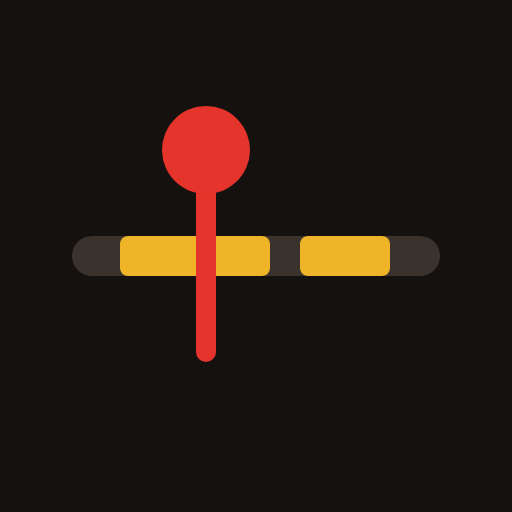
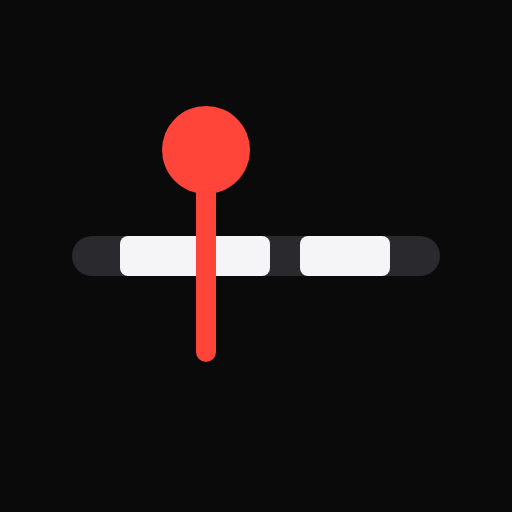
Redesign: dark, minimal interface; reliable taps; safe-area spacing
Marks are now committed on tap release using the touch-down time, so
scrolling over a button no longer creates a mark. The installed app pads
for the status bar and home indicator. Pages load network-first so
updates reach the installed app immediately.

Claude-Session: https://claude.ai/code/session_01YYdZZa9DfwNSCe6QqQTHd5

Changed region(s): [[0.2188, 0.1875, 0.5312, 0.7188], [0.5625, 0.4375, 0.7812, 0.5625]]

diff --git a/src/styles.css b/src/styles.css
@@ -1,134 +1,141 @@
-/* Layout: one column sized for a thumb; the record-red mark button owns the screen, everything else stays quiet. */
+/* Layout: one quiet near-black column; the red mark button is the only loud thing on screen. */
 :root {
-  --bg: #14110f;
-  --surface: #1e1a17;
-  --raised: #2a2521;
-  --line: #3a332d;
-  --fg: #f3ede6;
-  --muted: #a89c90;
-  --rec: #e5342b;
+  --bg: #0a0a0b;
+  --surface: #141416;
+  --raised: #1e1e21;
+  --line: rgba(255, 255, 255, 0.08);
+  --fg: #f5f5f7;
+  --muted: #8a8a90;
+  --rec: #ff453a;
+  --rec-deep: #c92a21;
   --rec-ink: #ffffff;
-  --accent: #f0b429;
-  --accent-ink: #1a1408;
-  --ok: #57c084;
-  --warn: #f0b429;
-  --tag-green: #57c084;
-  --tag-purple: #b08cf0;
-  --tag-blue: #5aa9f0;
-  --tag-yellow: #f0c94a;
-  --tag-red: #e5342b;
-  --font: ui-rounded, 'SF Pro Rounded', system-ui, -apple-system, 'Segoe UI', Roboto, 'Helvetica Neue', Arial, sans-serif;
+  --accent: #f5f5f7;
+  --accent-ink: #0a0a0b;
+  --ok: #30d158;
+  --warn: #ffd60a;
+  --tag-green: #30d158;
+  --tag-purple: #bf5af2;
+  --tag-blue: #4da3ff;
+  --tag-yellow: #ffd60a;
+  --tag-red: #ff453a;
+  --font: -apple-system, BlinkMacSystemFont, 'SF Pro Text', 'Inter', 'Segoe UI', Roboto, 'Helvetica Neue', Arial, sans-serif;
   --mono: ui-monospace, 'SF Mono', 'Roboto Mono', Menlo, Consolas, monospace;
   color-scheme: dark;
 }
-@media (prefers-color-scheme: light) {
-  :root:not([data-theme='dark']) {
-    --bg: #f6f2ec; --surface: #ffffff; --raised: #efe8df; --line: #d9cfc3; --fg: #1d1915; --muted: #6d6257;
-    --rec: #d42a22; --rec-ink: #ffffff; --accent: #a66a00; --accent-ink: #ffffff; --ok: #1f8a53; --warn: #a66a00;
-    --tag-green: #1f8a53; --tag-purple: #7446c9; --tag-blue: #1c6fc0; --tag-yellow: #9a7400; --tag-red: #d42a22;
-    color-scheme: light;
-  }
-}
-:root[data-theme='light'] {
-  --bg: #f6f2ec; --surface: #ffffff; --raised: #efe8df; --line: #d9cfc3; --fg: #1d1915; --muted: #6d6257;
-  --rec: #d42a22; --rec-ink: #ffffff; --accent: #a66a00; --accent-ink: #ffffff; --ok: #1f8a53; --warn: #a66a00;
-  --tag-green: #1f8a53; --tag-purple: #7446c9; --tag-blue: #1c6fc0; --tag-yellow: #9a7400; --tag-red: #d42a22;
-  color-scheme: light;
-}
 
 * { box-sizing: border-box; }
+html { background: var(--bg); }
 html, body { height: 100%; }
 body {
-  margin: 0; background: var(--bg); color: var(--fg); font-family: var(--font); font-size: 16px; line-height: 1.4;
-  touch-action: manipulation; overscroll-behavior: none; -webkit-text-size-adjust: 100%; -webkit-tap-highlight-color: transparent;
+  margin: 0; background: var(--bg); color: var(--fg); font-family: var(--font); font-size: 16px; line-height: 1.45;
+  -webkit-font-smoothing: antialiased; touch-action: manipulation; overscroll-behavior-y: none;
+  -webkit-text-size-adjust: 100%; -webkit-tap-highlight-color: transparent;
+  -webkit-user-select: none; user-select: none; -webkit-touch-callout: none;
 }
+input, textarea, select { -webkit-user-select: text; user-select: text; }
 #app { min-height: 100%; }
 .page {
-  max-width: 720px; margin: 0 auto; padding-block: 16px 40px;
-  padding-left: max(16px, env(safe-area-inset-left, 0px)); padding-right: max(16px, env(safe-area-inset-right, 0px));
-  display: flex; flex-direction: column; gap: 16px;
+  max-width: 560px; margin: 0 auto; padding-block: 20px 48px;
+  padding-left: max(20px, env(safe-area-inset-left, 0px)); padding-right: max(20px, env(safe-area-inset-right, 0px));
+  display: flex; flex-direction: column; gap: 20px;
 }
-h1 { font-size: 1.6rem; margin: 0; letter-spacing: -0.01em; text-wrap: balance; }
-h2 { font-size: 1.05rem; margin: 0; }
+/* Installed app: we own the whole screen, so clear the status bar and home indicator ourselves. */
+.standalone .page { padding-top: calc(12px + env(safe-area-inset-top, 0px)); padding-bottom: calc(48px + env(safe-area-inset-bottom, 0px)); }
+
+h1 { font-size: 1.9rem; font-weight: 700; margin: 0; letter-spacing: -0.03em; text-wrap: balance; }
+h2 { font-size: 1.05rem; font-weight: 600; margin: 0; letter-spacing: -0.01em; }
 p { margin: 0; }
 .muted { color: var(--muted); }
-.small { font-size: 0.85rem; }
+.small { font-size: 0.84rem; }
 .mono { font-family: var(--mono); font-variant-numeric: tabular-nums; }
-.row { display: flex; gap: 8px; align-items: center; flex-wrap: wrap; }
+.row { display: flex; gap: 10px; align-items: center; flex-wrap: wrap; }
 .row > .grow { flex: 1; min-width: 0; }
 .stack { display: flex; flex-direction: column; gap: 8px; }
-.card { background: var(--surface); border: 1px solid var(--line); border-radius: 14px; padding: 14px; display: flex; flex-direction: column; gap: 10px; }
-.label { font-size: 0.72rem; letter-spacing: 0.08em; text-transform: uppercase; color: var(--muted); }
+.card { background: var(--surface); border-radius: 20px; padding: 18px; display: flex; flex-direction: column; gap: 14px; }
+.label { font-size: 0.7rem; font-weight: 600; letter-spacing: 0.09em; text-transform: uppercase; color: var(--muted); }
 
 button, .btn {
-  font: inherit; color: var(--fg); background: var(--raised); border: 1px solid var(--line); border-radius: 10px;
-  padding: 10px 14px; min-height: 44px; cursor: pointer; user-select: none; -webkit-user-select: none;
-  display: inline-flex; align-items: center; justify-content: center; gap: 6px; text-align: center;
+  font: inherit; font-weight: 500; color: var(--fg); background: var(--raised); border: 0; border-radius: 14px;
+  padding: 12px 16px; min-height: 48px; cursor: pointer; position: relative;
+  display: inline-flex; align-items: center; justify-content: center; gap: 8px; text-align: center;
+  transition: opacity 120ms, transform 120ms;
 }
-button:focus-visible, .btn:focus-within, input:focus-visible, select:focus-visible { outline: 2px solid var(--accent); outline-offset: 2px; }
-button:disabled { opacity: 0.45; cursor: default; }
-button.primary { background: var(--accent); color: var(--accent-ink); border-color: transparent; font-weight: 600; }
-button.ghost { background: transparent; }
-button.quiet { background: transparent; border-color: transparent; color: var(--muted); padding: 6px 8px; min-height: 36px; }
+button:active, .btn:active { opacity: 0.6; }
+button:focus-visible, .btn:focus-within, input:focus-visible, select:focus-visible, textarea:focus-visible { outline: 2px solid var(--fg); outline-offset: 2px; }
+button:disabled { opacity: 0.35; cursor: default; }
+button.primary { background: var(--accent); color: var(--accent-ink); font-weight: 600; }
+button.ghost { background: transparent; box-shadow: inset 0 0 0 1px var(--line); color: var(--muted); }
+button.quiet { background: transparent; color: var(--muted); padding: 6px 4px; min-height: 40px; min-width: 40px; }
 button.danger { color: var(--rec); }
-.btn input[type='file'] { position: absolute; width: 1px; height: 1px; opacity: 0; }
-.btn { position: relative; }
+.btn input[type='file'] { position: absolute; inset: 0; width: 100%; height: 100%; opacity: 0; cursor: pointer; font-size: 0; }
 input[type='text'], input[type='number'], select, textarea {
-  font: inherit; font-size: 16px; color: var(--fg); background: var(--bg); border: 1px solid var(--line); border-radius: 10px;
-  padding: 10px 12px; min-height: 44px; width: 100%; min-width: 0;
+  font: inherit; font-size: 16px; color: var(--fg); background: var(--raised); border: 0; border-radius: 12px;
+  padding: 12px 14px; min-height: 48px; width: 100%; min-width: 0; -webkit-appearance: none; appearance: none;
 }
-.seg { display: inline-flex; border: 1px solid var(--line); border-radius: 10px; overflow: hidden; }
-.seg button { border: 0; border-radius: 0; background: transparent; min-height: 40px; padding: 6px 12px; color: var(--muted); }
-.seg button[aria-pressed='true'] { background: var(--raised); color: var(--fg); font-weight: 600; }
+input::placeholder { color: var(--muted); opacity: 0.7; }
+.seg { display: inline-flex; background: var(--raised); border-radius: 12px; padding: 3px; gap: 2px; }
+.seg button { background: transparent; border-radius: 9px; min-height: 38px; min-width: 46px; padding: 4px 12px; color: var(--muted); }
+.seg button[aria-pressed='true'] { background: var(--fg); color: var(--accent-ink); font-weight: 600; }
 
 /* Mark screen */
-.topbar { display: flex; align-items: center; gap: 8px; }
-.topbar .title { flex: 1; min-width: 0; font-weight: 600; overflow: hidden; text-overflow: ellipsis; white-space: nowrap; }
-.clock { font-family: var(--mono); font-variant-numeric: tabular-nums; font-size: 1.05rem; }
+.topbar { display: flex; align-items: center; gap: 10px; min-height: 40px; }
+.topbar .title { flex: 1; min-width: 0; font-weight: 600; letter-spacing: -0.01em; overflow: hidden; text-overflow: ellipsis; white-space: nowrap; }
+.clock { font-family: var(--mono); font-variant-numeric: tabular-nums; font-size: 0.95rem; color: var(--muted); }
+.stage { display: flex; flex-direction: column; align-items: center; gap: 18px; padding-block: 12px 4px; }
 .markbtn {
-  width: 100%; min-height: min(38vh, 300px); border-radius: 28px; border: 0; background: var(--rec); color: var(--rec-ink);
-  font-size: 2.2rem; font-weight: 700; letter-spacing: 0.06em; flex-direction: column; gap: 2px;
-  box-shadow: 0 10px 0 color-mix(in srgb, var(--rec) 55%, #000); transition: transform 60ms, box-shadow 60ms;
+  width: min(64vw, 260px); height: min(64vw, 260px); min-height: 0; padding: 0; border-radius: 50%;
+  background: radial-gradient(circle at 50% 35%, var(--rec), var(--rec-deep)); color: var(--rec-ink);
+  font-size: 1.5rem; font-weight: 700; letter-spacing: 0.16em; text-indent: 0.16em;
+  box-shadow: 0 0 0 10px rgba(255, 69, 58, 0.1), 0 24px 60px -18px rgba(255, 69, 58, 0.55);
+  transition: transform 90ms ease-out; touch-action: manipulation;
 }
-.markbtn:active, .markbtn.hit { transform: translateY(8px); box-shadow: 0 2px 0 color-mix(in srgb, var(--rec) 55%, #000); }
-.markbtn small { font-size: 0.8rem; font-weight: 500; letter-spacing: 0.02em; opacity: 0.85; }
-.tags { display: grid; grid-template-columns: repeat(2, minmax(0, 1fr)); gap: 8px; }
-.tag { min-height: 56px; font-weight: 600; border-color: var(--c); color: var(--c); background: color-mix(in srgb, var(--c) 12%, transparent); }
-.dot { width: 10px; height: 10px; border-radius: 50%; background: var(--c); flex: none; }
+.markbtn:active { opacity: 1; transform: scale(0.955); }
+.markbtn::after { content: ''; position: absolute; inset: -10px; border-radius: 50%; border: 2px solid var(--rec); opacity: 0; pointer-events: none; }
+.markbtn.hit::after { animation: ring 520ms ease-out; }
+@keyframes ring { from { opacity: 0.7; transform: scale(1); } to { opacity: 0; transform: scale(1.22); } }
+.count { font-size: 0.9rem; color: var(--muted); min-height: 1.4em; font-variant-numeric: tabular-nums; }
+.count b { color: var(--fg); font-weight: 600; }
+.tags { display: grid; grid-template-columns: repeat(2, minmax(0, 1fr)); gap: 10px; }
+.tag { min-height: 54px; justify-content: flex-start; background: var(--surface); padding-inline: 16px; }
+.tag.hit { animation: tagflash 420ms ease-out; }
+@keyframes tagflash { from { background: color-mix(in srgb, var(--c) 40%, var(--surface)); } to { background: var(--surface); } }
+.dot { width: 8px; height: 8px; border-radius: 50%; background: var(--c); flex: none; }
 .c-green { --c: var(--tag-green); } .c-purple { --c: var(--tag-purple); } .c-blue { --c: var(--tag-blue); }
 .c-yellow { --c: var(--tag-yellow); } .c-red { --c: var(--tag-red); }
-.flash { position: fixed; inset: 0; background: var(--fg); opacity: 0; pointer-events: none; z-index: 20; }
-.flash.on { animation: flash 260ms ease-out; }
-@keyframes flash { from { opacity: 0.35; } to { opacity: 0; } }
-@media (prefers-reduced-motion: reduce) { .flash.on { animation: none; } .markbtn { transition: none; } }
+@media (prefers-reduced-motion: reduce) { .markbtn, button, .btn { transition: none; } .markbtn.hit::after, .tag.hit { animation: none; } }
 .marks { display: flex; flex-direction: column; }
-.mark { display: grid; grid-template-columns: auto minmax(0, 1fr) auto; gap: 10px; align-items: center; padding: 8px 0; border-top: 1px solid var(--line); }
-.mark:first-child { border-top: 0; }
-.mark input { min-height: 38px; padding: 6px 10px; }
+.mark { display: grid; grid-template-columns: auto minmax(0, 1fr) auto; gap: 12px; align-items: center; padding: 8px 0; }
+.mark + .mark { border-top: 1px solid var(--line); }
+.mark input { min-height: 40px; padding: 8px 12px; background: transparent; }
+.mark input:focus { background: var(--raised); }
 
 /* Slate */
 .slate { position: fixed; inset: 0; z-index: 30; background: #000; color: #fff; display: flex; flex-direction: column; align-items: center; justify-content: center; gap: 3vh;
-  padding: max(16px, env(safe-area-inset-top, 0px)) max(16px, env(safe-area-inset-right, 0px)) max(16px, env(safe-area-inset-bottom, 0px)) max(16px, env(safe-area-inset-left, 0px)); text-align: center; }
+  padding: max(20px, env(safe-area-inset-top, 0px)) max(20px, env(safe-area-inset-right, 0px)) max(20px, env(safe-area-inset-bottom, 0px)) max(20px, env(safe-area-inset-left, 0px)); text-align: center; }
 .slate .big { font-family: var(--mono); font-variant-numeric: tabular-nums; font-weight: 700; font-size: min(15vw, 30vh); line-height: 1; white-space: nowrap; }
 .slate .bar { width: 90%; height: 5vh; border: 2px solid #fff; position: relative; }
 .slate .bar i { position: absolute; top: 0; bottom: 0; left: 0; background: #fff; }
-.slate button { background: #222; color: #fff; border-color: #555; }
 
 /* Footage */
-.timeline { display: flex; flex-direction: column; gap: 6px; }
-.lane { display: grid; grid-template-columns: 54px minmax(0, 1fr); gap: 8px; align-items: center; }
-.track { position: relative; height: 26px; background: var(--bg); border: 1px solid var(--line); border-radius: 6px; overflow: hidden; }
-.track .clip { position: absolute; top: 3px; bottom: 3px; background: color-mix(in srgb, var(--accent) 45%, transparent); border-radius: 3px; min-width: 2px; }
+.timeline { display: flex; flex-direction: column; gap: 8px; }
+.lane { display: grid; grid-template-columns: 56px minmax(0, 1fr); gap: 10px; align-items: center; }
+.track { position: relative; height: 22px; background: var(--raised); border-radius: 6px; overflow: hidden; }
+.track .clip { position: absolute; top: 0; bottom: 0; background: rgba(245, 245, 247, 0.28); border-radius: 4px; min-width: 2px; }
 .track .tick { position: absolute; top: 0; bottom: 0; width: 2px; background: var(--c, var(--rec)); }
-.cliprow { display: grid; grid-template-columns: minmax(0, 1fr) auto; gap: 8px; padding: 6px 0; border-top: 1px solid var(--line); font-size: 0.9rem; }
-.pill { display: inline-flex; align-items: center; gap: 6px; border-radius: 999px; padding: 2px 10px; font-size: 0.78rem; border: 1px solid var(--line); color: var(--muted); }
-.pill.ok { color: var(--ok); border-color: var(--ok); } .pill.warn { color: var(--warn); border-color: var(--warn); }
-.notice { border: 1px solid var(--warn); color: var(--fg); border-radius: 12px; padding: 10px 12px; font-size: 0.9rem; background: color-mix(in srgb, var(--warn) 10%, transparent); }
-.modal { position: fixed; inset: 0; z-index: 25; background: color-mix(in srgb, var(--bg) 80%, transparent); display: flex; align-items: flex-end; justify-content: center; }
-.modal .sheet { background: var(--surface); border: 1px solid var(--line); border-radius: 18px 18px 0 0; width: 100%; max-width: 720px; max-height: 92%; overflow: auto;
-  padding: 18px max(16px, env(safe-area-inset-right, 0px)) calc(18px + env(safe-area-inset-bottom, 0px)) max(16px, env(safe-area-inset-left, 0px)); display: flex; flex-direction: column; gap: 12px; }
-.grid3 { display: grid; grid-template-columns: repeat(3, minmax(0, 1fr)); gap: 8px; }
-.exports { display: grid; grid-template-columns: repeat(auto-fit, minmax(220px, 1fr)); gap: 8px; }
-.exports button { justify-content: flex-start; text-align: left; flex-direction: column; align-items: flex-start; gap: 0; }
-ol.steps { margin: 0; padding-left: 1.2em; display: flex; flex-direction: column; gap: 6px; }
-textarea.copy { min-height: 160px; font-family: var(--mono); font-size: 12px; }
+.cliprow { display: grid; grid-template-columns: minmax(0, 1fr) auto; gap: 10px; align-items: center; padding: 10px 0; font-size: 0.9rem; }
+.cliprow + .cliprow { border-top: 1px solid var(--line); }
+.pill { display: inline-flex; align-items: center; gap: 6px; border-radius: 999px; padding: 4px 10px; font-size: 0.75rem; font-weight: 500; background: var(--raised); color: var(--muted); white-space: nowrap; }
+.pill.ok { color: var(--ok); background: rgba(48, 209, 88, 0.12); } .pill.warn { color: var(--warn); background: rgba(255, 214, 10, 0.12); }
+.notice { border-radius: 14px; padding: 12px 14px; font-size: 0.88rem; background: rgba(255, 214, 10, 0.08); color: var(--fg); }
+.modal { position: fixed; inset: 0; z-index: 25; background: rgba(0, 0, 0, 0.6); -webkit-backdrop-filter: blur(8px); backdrop-filter: blur(8px); display: flex; align-items: flex-end; justify-content: center; }
+.modal .sheet { background: var(--surface); border-radius: 24px 24px 0 0; width: 100%; max-width: 560px; max-height: 92%; overflow: auto;
+  padding: 22px max(20px, env(safe-area-inset-right, 0px)) calc(22px + env(safe-area-inset-bottom, 0px)) max(20px, env(safe-area-inset-left, 0px)); display: flex; flex-direction: column; gap: 14px; }
+.grid3 { display: grid; grid-template-columns: repeat(3, minmax(0, 1fr)); gap: 10px; }
+.grid4 { display: grid; grid-template-columns: repeat(4, minmax(0, 1fr)); gap: 8px; }
+.grid4 button { padding-inline: 4px; }
+.exports { display: flex; flex-direction: column; }
+.export { display: grid; grid-template-columns: minmax(0, 1fr) auto; gap: 8px; align-items: center; }
+.export + .export { border-top: 1px solid var(--line); }
+.export > button:first-child { background: transparent; border-radius: 0; justify-content: flex-start; text-align: left; flex-direction: column; align-items: flex-start; gap: 0; padding: 12px 0; }
+ol.steps { margin: 0; padding-left: 1.2em; display: flex; flex-direction: column; gap: 8px; }
+textarea.copy { min-height: 180px; font-family: var(--mono); font-size: 12px; }

diff --git a/src/ui/MarkScreen.tsx b/src/ui/MarkScreen.tsx
@@ -19,7 +19,8 @@ export function MarkScreen({ session, update, onHome, onFootage }: Props) {
   const [now, setNow] = useState(Date.now());
   const [awake, setAwake] = useState(false);
   const [slate, setSlate] = useState(false);
-  const [flash, setFlash] = useState(0);
+  const [hit, setHit] = useState<{ key: string; n: number }>({ key: '', n: 0 });
+  const downAt = useRef(0);
   const latest = useRef(session);
   latest.current = session;
 
@@ -36,13 +37,19 @@ export function MarkScreen({ session, update, onHome, onFootage }: Props) {
   }, []);
 
   // The timestamp is taken first, before anything else can delay it.
+  const press = () => {
+    downAt.current = Date.now();
+  };
   const mark = (tag: string, color: string) => {
-    const tapMs = Date.now();
+    const now = Date.now();
+    // Use the moment the finger went down, unless that was long ago (keyboard, stale touch).
+    const tapMs = now - downAt.current < 1500 ? downAt.current : now;
+    downAt.current = 0;
     const s = latest.current;
     const m: Marker = { id: uid(), tapMs, preRollMs: s.preRollMs, tag, color, note: '' };
     update({ ...s, markers: [...s.markers, m] });
     buzz();
-    setFlash((n) => n + 1);
+    setHit((h) => ({ key: tag || 'mark', n: h.n + 1 }));
     if (!awake) void keepAwake(true).then(setAwake);
   };
 
@@ -53,28 +60,35 @@ export function MarkScreen({ session, update, onHome, onFootage }: Props) {
 
   return (
     <div class="page">
-      <div key={flash} class={`flash ${flash ? 'on' : ''}`} />
       <div class="topbar">
-        <button class="quiet" onClick={onHome} aria-label="Back to shoots">‹ Shoots</button>
+        <button class="quiet" onClick={onHome} aria-label="Back to shoots">‹</button>
         <span class="title" dir="auto">{session.name}</span>
         <span class="clock" aria-label="Phone time">{clockText(now)}</span>
       </div>
 
-      <button class="markbtn" onPointerDown={(e) => { e.preventDefault(); mark('', 'red'); }} onKeyDown={(e) => { if (e.key === 'Enter' || e.key === ' ') { e.preventDefault(); mark('', 'red'); } }}>
-        MARK
-        <small>{session.markers.length === 0 ? 'Tap when something good happens' : `${session.markers.length} marked`}</small>
-      </button>
+      <div class="stage">
+        <button key={hit.key === 'mark' ? hit.n : 'mark'} class={`markbtn ${hit.key === 'mark' ? 'hit' : ''}`} aria-label="Mark this moment" onPointerDown={press} onClick={() => mark('', 'red')}>
+          MARK
+        </button>
+        <div class="count" role="status">
+          {session.markers.length === 0 ? 'Tap when something good happens' : <><b>{session.markers.length}</b> marked</>}
+        </div>
+      </div>
 
       <div class="tags">
         {session.tags.map((t) => (
-          <button key={t.label} class={`tag c-${t.color}`} onPointerDown={(e) => { e.preventDefault(); mark(t.label, t.color); }} onKeyDown={(e) => { if (e.key === 'Enter' || e.key === ' ') { e.preventDefault(); mark(t.label, t.color); } }}>
+          <button key={t.label + (hit.key === t.label ? hit.n : '')} class={`tag c-${t.color} ${hit.key === t.label ? 'hit' : ''}`} onPointerDown={press} onClick={() => mark(t.label, t.color)}>
+            <span class="dot" />
             {t.label}
           </button>
         ))}
       </div>
 
       <div class="row">
-        <span class="label grow">Look-back: marks land this long before your tap</span>
+        <div class="stack grow" style="gap:2px">
+          <span>Look-back</span>
+          <span class="muted small">Marks land this long before your tap</span>
+        </div>
         <div class="seg" role="group" aria-label="Look-back">
           {[0, 3, 5, 10].map((s) => (
             <button key={s} aria-pressed={session.preRollMs === s * 1000} onClick={() => update({ ...session, preRollMs: s * 1000 })}>
@@ -88,7 +102,7 @@ export function MarkScreen({ session, update, onHome, onFootage }: Props) {
         <button class="grow" onClick={() => setSlate(true)}>Sync slate</button>
         <button class="grow primary" onClick={onFootage}>Footage &amp; export</button>
       </div>
-      {!awake && <p class="muted small">Your screen may dim while you listen. Marks are saved either way; tap once to wake it.</p>}
+      {!awake && <p class="muted small">Your screen may dim while you listen. Marks are saved either way.</p>}
 
       {recent.length > 0 && (
         <section class="card">

diff --git a/src/ui/FootageScreen.tsx b/src/ui/FootageScreen.tsx
@@ -65,7 +65,7 @@ export function FootageScreen({ session, update, onBack, onHome }: Props) {
   return (
     <div class="page">
       <div class="topbar">
-        <button class="quiet" onClick={onBack}>‹ Mark</button>
+        <button class="quiet" onClick={onBack} aria-label="Back to marking">‹</button>
         <span class="title" dir="auto">{session.name}</span>
         <button class="quiet" onClick={onHome}>Shoots</button>
       </div>
@@ -116,12 +116,12 @@ export function FootageScreen({ session, update, onBack, onHome }: Props) {
         {!hasClips && <p class="muted small">Add clips first to get editor files. You can already save a session backup.</p>}
         <div class="exports">
           {files.filter((f) => hasClips || f.kind === 'session').map((f) => (
-            <div class="stack" key={f.name} style="gap:4px">
+            <div class="export" key={f.name}>
               <button onClick={() => run(() => saveFile(f))}>
-                <strong>{label[f.kind][0]}</strong>
+                <span>{label[f.kind][0]}</span>
                 <span class="muted small">{label[f.kind][1]}</span>
               </button>
-              <button class="quiet small" onClick={() => setShowing(f)}>Show as text</button>
+              <button class="quiet small" aria-label={`Show ${label[f.kind][0]} as text`} onClick={() => setShowing(f)}>Text</button>
             </div>
           ))}
         </div>
@@ -216,7 +216,7 @@ function CameraCard(p: {
   return (
     <section class="card">
       <div class="row">
-        <input id={`cam-${c.id}`} class="grow" type="text" dir="auto" value={c.label} aria-label="Camera name" style="font-weight:600;max-width:12em" onInput={(e) => p.onChange({ label: (e.target as HTMLInputElement).value })} />
+        <input id={`cam-${c.id}`} class="grow" type="text" dir="auto" value={c.label} aria-label="Camera name" style="font-weight:600;max-width:10em" onInput={(e) => p.onChange({ label: (e.target as HTMLInputElement).value })} />
         <span class="grow muted small">{models}{cam.clips.length ? ` · ${cam.clips.length} clip${cam.clips.length === 1 ? '' : 's'} · ${p.markerCount} mark${p.markerCount === 1 ? '' : 's'}` : ''}</span>
       </div>
       <div class="row">
@@ -237,7 +237,7 @@ function CameraCard(p: {
               <span class={`pill ${c.calibrated ? 'ok' : ''}`}>{c.calibrated ? 'Slate-synced' : cam.freeRun ? 'Free-run timecode' : 'Camera clock'}</span>
             </div>
             <p class="muted small">{describeAccuracy(cam)}</p>
-            <div class="row">
+            <div class="grid4">
               <button onClick={() => nudge(-1000)} aria-label="Camera clock 1 second earlier">−1 s</button>
               <button onClick={() => nudge(-100)} aria-label="Camera clock a tenth earlier">−0.1</button>
               <button onClick={() => nudge(100)} aria-label="Camera clock a tenth later">+0.1</button>

diff --git a/public/sw.js b/public/sw.js
@@ -1,5 +1,5 @@
 // Offline support: serve the app from cache, refresh the cache in the background when online.
-const CACHE = 'contentsync-v1';
+const CACHE = 'contentsync-v2';
 self.addEventListener('install', (e) => {
   e.waitUntil(caches.open(CACHE).then((c) => c.addAll(['./', './manifest.webmanifest', './icon.svg', './icon-192.png'])));
   self.skipWaiting();
@@ -16,7 +16,8 @@ self.addEventListener('fetch', (e) => {
     caches.open(CACHE).then(async (cache) => {
       const cached = await cache.match(req, { ignoreSearch: req.mode === 'navigate' });
       const fresh = fetch(req).then((res) => { if (res.ok) cache.put(req, res.clone()); return res; }).catch(() => cached);
-      return cached || fresh;
+      // Pages load fresh when online so updates arrive at once; everything else is cache-first.
+      return req.mode === 'navigate' ? fresh.then((r) => r || cached) : cached || fresh;
     }),
   );
 });

diff --git a/index.html b/index.html
@@ -6,7 +6,7 @@
     <meta name="claude:viewport-fit-sides" content="cover" />
     <title>ContentSync</title>
     <meta name="description" content="Mark interview moments on your phone and sync them to Sony FX3 / A7S III footage." />
-    <meta name="theme-color" content="#14110f" />
+    <meta name="theme-color" content="#0a0a0b" />
     <meta name="apple-mobile-web-app-capable" content="yes" />
     <meta name="mobile-web-app-capable" content="yes" />
     <meta name="apple-mobile-web-app-status-bar-style" content="black-translucent" />

diff --git a/src/main.tsx b/src/main.tsx
@@ -4,6 +4,8 @@ import './styles.css';
 
 declare const __SINGLE__: boolean;
 
+if (!__SINGLE__) document.documentElement.classList.add('standalone');
+
 render(<App />, document.getElementById('app')!);
 
 if (!__SINGLE__ && 'serviceWorker' in navigator && location.protocol === 'https:') {
